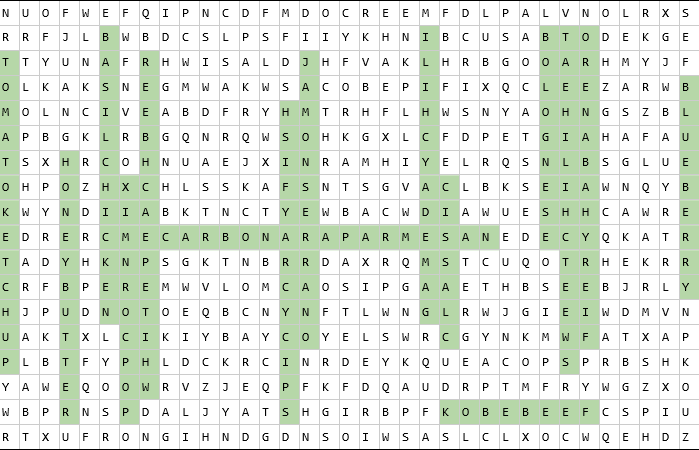
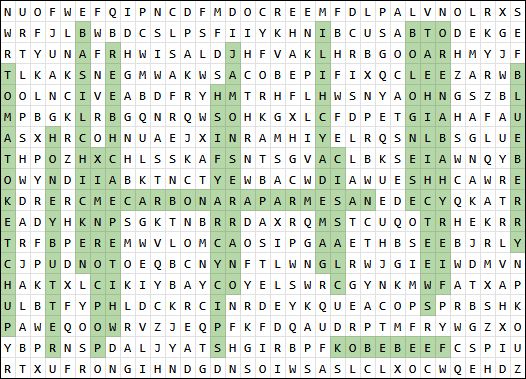
Update next-van (Taste Explosion)

Changed region(s): [[0.0, 0.0, 1.0, 1.0]]

diff --git a/site/src/frontend/puzzles/next-van/puzzle.tsx b/site/src/frontend/puzzles/next-van/puzzle.tsx
@@ -19,22 +19,22 @@ import img9 from "./assets/img9.png";
 
 const GRID = [
   "NUOFWEFQIPNCDFMDOCREEMFDLPALVNOLRXS",
-  "RRFJLBWBDCSLPSFIIYKHNIBCUSABTODEKGE",
-  "TTYUNAFRHWISALDJHFVAKLHRBGOOARHMYJF",
-  "OLKAKSNEGMWAKWSACOBEPIFIXQCLEEZARWB",
-  "MOLNCIVEABDFRYHMTRHFLHWSNYAOHNGSZBL",
-  "APBGKLRBGQNRQWSOHKGXLCFDPETGIAHAFAU",
-  "TSXHRCOHNUAEJXINRAMHIYELRQSNLBSGLUE",
-  "OHPOZHXCHLSSKAFSNTSGVACLBKSEIAWNQYB",
-  "KWYNDIIABKTNCTYEWBACWDIAWUESHHCAWRE",
-  "EDRERCMECARBONARAPARMESANEDECYQKATR",
-  "TADYHKNPSGKTNBRRDAXRQMSTCUQOTRHEKRR",
-  "CRFBPEREMWVLOMCAOSIPGAAETHBSEEBJRLY",
-  "HJPUDNOTOEQBCNYNFTLWNGLRWJGIEIWDMVN",
-  "UAKTXLCIKIYBAYCOYELSWRCGYNKMWFATXAP",
-  "PLBTFYPHLDCKRCINRDEYKQUEACOPSPRBSHK",
-  "YAWEQOOWRVZJEQPFKFDQAUDRPTMFRYWGZXO",
-  "WBPRNSPDALJYATSHGIRBPFKOBEBEEFCSPIU",
+  "WRFJLBWBDCSLPSFIIYKHNIBCUSABTODEKGE",
+  "RTYUNAFRHWISALDJHFVAKLHRBGOOARHMYJF",
+  "TLKAKSNEGMWAKWSACOBEPIFIXQCLEEZARWB",
+  "OOLNCIVEABDFRYHMTRHFLHWSNYAOHNGSZBL",
+  "MPBGKLRBGQNRQWSOHKGXLCFDPETGIAHAFAU",
+  "ASXHRCOHNUAEJXINRAMHIYELRQSNLBSGLUE",
+  "THPOZHXCHLSSKAFSNTSGVACLBKSEIAWNQYB",
+  "OWYNDIIABKTNCTYEWBACWDIAWUESHHCAWRE",
+  "KDRERCMECARBONARAPARMESANEDECYQKATR",
+  "EADYHKNPSGKTNBRRDAXRQMSTCUQOTRHEKRR",
+  "TRFBPEREMWVLOMCAOSIPGAAETHBSEEBJRLY",
+  "CJPUDNOTOEQBCNYNFTLWNGLRWJGIEIWDMVN",
+  "HAKTXLCIKIYBAYCOYELSWRCGYNKMWFATXAP",
+  "ULBTFYPHLDCKRCINRDEYKQUEACOPSPRBSHK",
+  "PAWEQOOWRVZJEQPFKFDQAUDRPTMFRYWGZXO",
+  "YBPRNSPDALJYATSHGIRBPFKOBEBEEFCSPIU",
   "RTXUFRONGIHNDGDNSOIWSASLCLXOCWQEHDZ",
 ];
 
